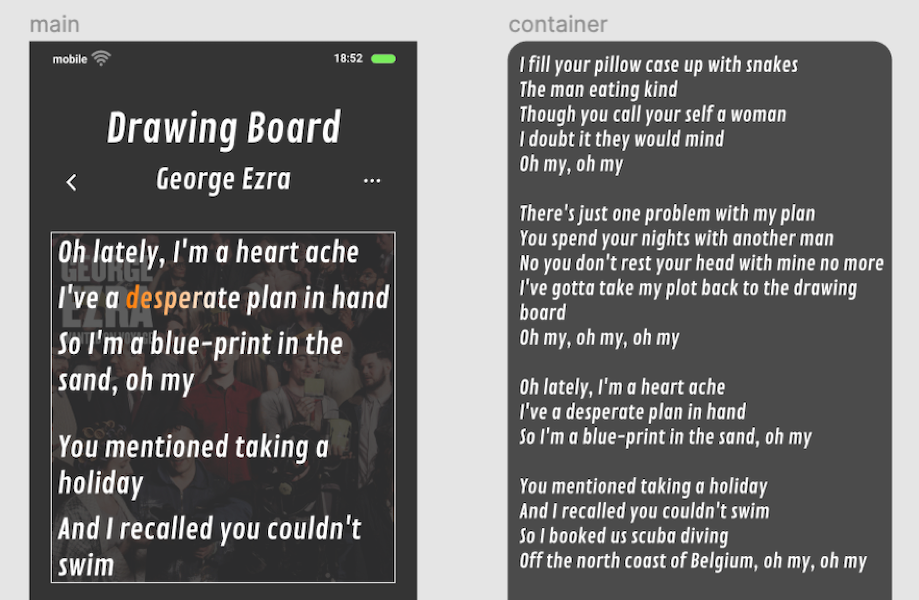
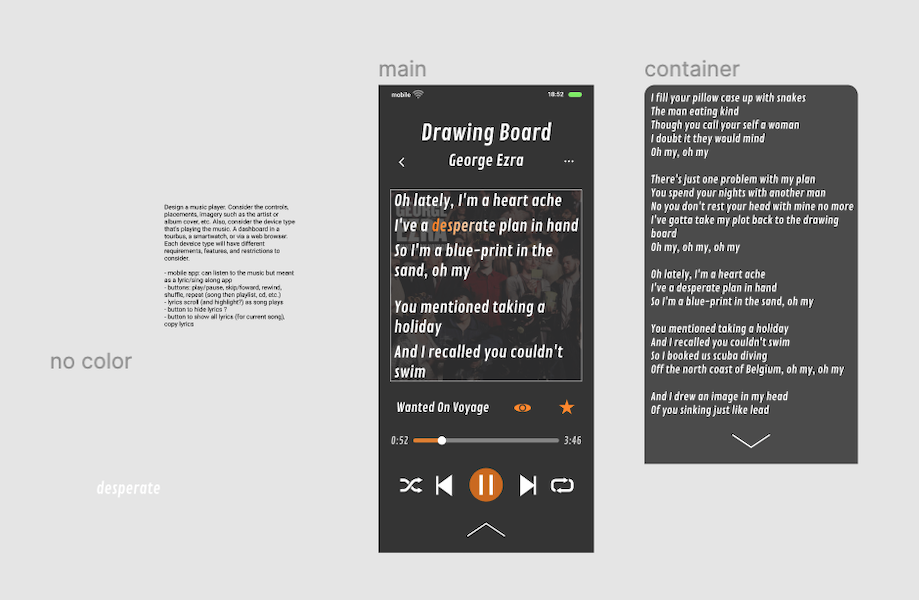
updating UI challenge images

diff --git a/uichallenges.html b/uichallenges.html
@@ -41,7 +41,7 @@
           <div class="subtext ui-subtext" onclick="openModal('challenge1')"
             onmouseover="greyscale(0)" onmouseout="removeGrey(0)">Sign Up Page</div>
           <img id="ui-img" style="width:100%" src="images/formUI.png"
-            alt="figma draft - mobile sign up page and form with small blue dog icon">
+            alt="figma draft - two mobile sign up screens where one is a form and the other has a small blue dog icon">
         </div>
         <div class="column">
           <div class="subtext ui-subtext" onclick="openModal('challenge2')"
@@ -55,13 +55,13 @@
           <div class="subtext ui-subtext" onclick="openModal('challenge4')"
             onmouseover="greyscale(2)" onmouseout="removeGrey(2)">Calculator</div>
           <img id="ui-img" style="width:100%" src="images/calcUI.png"
-            alt="figma draft - cropped calculators (light and dark versions)">
+            alt="figma draft - calculators (light and dark versions)">
         </div>
         <div class="column">
           <div class="subtext ui-subtext" onclick="openModal('challenge5')"
             onmouseover="greyscale(3)" onmouseout="removeGrey(3)">App Icon</div>
           <img id="ui-img" style="width:100%" src="images/appIcon.png"
-            alt="figma draft - cropped app icon of black pen with rainbow circle above the top">
+            alt="figma draft - app icon of black pen with rainbow circle above the top">
         </div>
       </div>
       <div class="row">
@@ -69,13 +69,13 @@
           <div class="subtext ui-subtext" onclick="openModal('challenge9')"
             onmouseover="greyscale(4)" onmouseout="removeGrey(4)">Music Player</div>
           <img id="ui-img" style="width:100%" src="images/playerUI.png"
-            alt="figma draft - dark grey background with partial lyrics of Drawing Board by George Ezra in white">
+            alt="figma draft - two dark mobile screens, one with play buttons, both with partial lyrics of Drawing Board by George Ezra in white">
         </div>
         <div class="column">
           <div class="subtext ui-subtext" onclick="openModal('challenge10')"
             onmouseover="greyscale(5)" onmouseout="removeGrey(5)">Share Button</div>
           <img id="ui-img" style="width:100%" src="images/shareUI.png"
-            alt="figma draft - greyed out arrow with colored social media icons (in circles) surrounding it">
+            alt="figma draft - two frames, one with a purple arrow, one with a greyed out arrow with colored social media icons (in circles) surrounding it">
         </div>
       </div>
       <div class="row">
@@ -83,13 +83,13 @@
           <div class="subtext ui-subtext" onclick="openModal('challenge11')"
             onmouseover="greyscale(6)" onmouseout="removeGrey(6)">Flash Message</div>
           <img id="ui-img" style="width:100%" src="images/flashUI.png"
-            alt="figma draft - a cropped pink rectangle saying congrats on creating a gif and a cropped blue rectangle saying oops your gif did not work">
+            alt="figma draft - a pink rectangle saying congrats on creating a gif and a blue rectangle saying oops your gif did not work">
         </div>
         <div class="column">
           <div class="subtext ui-subtext" onclick="openModal('challenge12')"
             onmouseover="greyscale(7)" onmouseout="removeGrey(7)">eCommerce</div>
           <img id="ui-img" style="width:100%" src="images/ecomUI.png"
-            alt="figma draft - clothing website called outerwear that's all greyscale except for the rainbow O and W in the name">
+            alt="figma draft - two desktop screens with mostly greyscale or yellow coloring and multiple detail squares surrounding them">
         </div>
       </div>
       <div class="row">
@@ -97,13 +97,13 @@
           <div class="subtext ui-subtext" onclick="openModal('challenge13')"
             onmouseover="greyscale(8)" onmouseout="removeGrey(8)">Messaging</div>
           <img id="ui-img" style="width:100%" src="images/chatUI.png"
-            alt="figma draft - live chat box that is white and turquiose on a sand colored background">
+            alt="figma draft - five screens that make up a live chat box that is white and turquiose on a sand colored background">
         </div>
         <div class="column">
           <div class="subtext ui-subtext" onclick="openModal('challenge14')"
             onmouseover="greyscale(9)" onmouseout="removeGrey(9)">Countdown</div>
           <img id="ui-img" style="width:100%" src="images/countdownUI.png"
-            alt="figma draft - gradient blue to red cropped countdown timer for the 2020 presidential election (at 92 days)">
+            alt="figma draft - gradient blue to red cropped timer for the 2020 presidential election (at 92 days)">
         </div>
       </div>
       <div class="row">
@@ -111,13 +111,21 @@
           <div class="subtext ui-subtext" onclick="openModal('challenge16')"
             onmouseover="greyscale(10)" onmouseout="removeGrey(10)">Pop Up</div>
           <img id="ui-img" style="width:100%" src="images/popupUI.png"
-            alt="figma draft - white backgroud with light grey tattoo designs with text saying Get Notified About Our Next Flash Event with the option to enter an email to sign up">
+            alt="figma draft - vagabond tattoo desktop site on the left and a desktop screen with blackwork tattoos and sign up text on the right">
         </div>
         <div class="column">
           <div class="subtext ui-subtext" onclick="openModal('challenge18')"
             onmouseover="greyscale(11)" onmouseout="removeGrey(11)">Analytics</div>
           <img id="ui-img" style="width:100%" src="images/analyticsUI.png"
-            alt="figma draft - on the left is a white backgroud with a dark purple header and two circle charts and on the right is a smaller box that acts as a calender for Jan 2021">
+            alt="figma draft - three white mobile screens with dark purple headers, four circle charts, and three additional detail boxes between">
+        </div>
+      </div>
+      <div class="row">
+        <div class="column">
+          <div class="subtext ui-subtext" onclick="openModal('challenge20')"
+            onmouseover="greyscale(12)" onmouseout="removeGrey(12)">Tracker</div>
+          <img id="ui-img" style="width:100%" src="images/trackerUI.png"
+            alt="figma draft - nine mobile screens where the leftmost has a map and the remaining have varying bar graphs with additional smaller details around the screens">
         </div>
       </div>
       <div id="infoModal" onclick="closeModal()">
@@ -129,7 +137,7 @@
             <br></br>
               <a class="text-link" style="font-size: 65px;"
               href="https://www.figma.com/proto/WEXl0HqfY1MfI6FgfzZ513/daily-UI?node-id=1%3A2&scaling=scale-down">
-                &#8680;
+              &#8680;   <!-- arrow -->
               </a>
           </div>
         </div>
@@ -261,6 +269,17 @@
               </a>
           </div>
         </div>
+        <div id="challenge20">
+          <div class="modal-text">
+            "Design a location tracker. Consider the icon, placement, and purpose
+            of location. Mapping something? Is it a tracking beacon? Is the NSA tracking you?"
+            <br></br>
+              <a class="text-link" style="font-size: 65px;"
+              href="https://www.figma.com/proto/WEXl0HqfY1MfI6FgfzZ513/daily-UI?node-id=439%3A0&scaling=scale-down&page-id=435%3A5">
+                &#8680;
+              </a>
+          </div>
+        </div>
       </div>
     </center>
 
@@ -297,6 +316,7 @@
       document.getElementById("challenge14").style.display = "none";
       document.getElementById("challenge16").style.display = "none";
       document.getElementById("challenge18").style.display = "none";
+      document.getElementById("challenge20").style.display = "none";
     }
 
     function greyscale(index) {

diff --git a/projects.html b/projects.html
@@ -38,7 +38,7 @@
             onmouseover="greyscale(0)" onmouseout="removeGrey(0)">
             <div class="subtext portfolio-subtext">UI Challenges</div>
             <img class="portfolio-img" src="images/UIchallenge.png"
-              alt="example UI - cropped iphone with sign in page and small blue dog icon">
+              alt="example UI - gradient rainbow circle with the top half of a basic black pen underneath">
           </a>
         </div>
         <div class="thumbnails">

diff --git a/style.css b/style.css
@@ -215,7 +215,8 @@ body, html {
 
 /* white box with details about challenges*/
 #challenge1, #challenge2, #challenge4, #challenge5, #challenge9, #challenge10,
-#challenge11, #challenge12, #challenge13, #challenge14, #challenge16, #challenge18 {
+#challenge11, #challenge12, #challenge13, #challenge14, #challenge16, #challenge18,
+#challenge20 {
   position: fixed;
   display: none;
   width: 70%;
